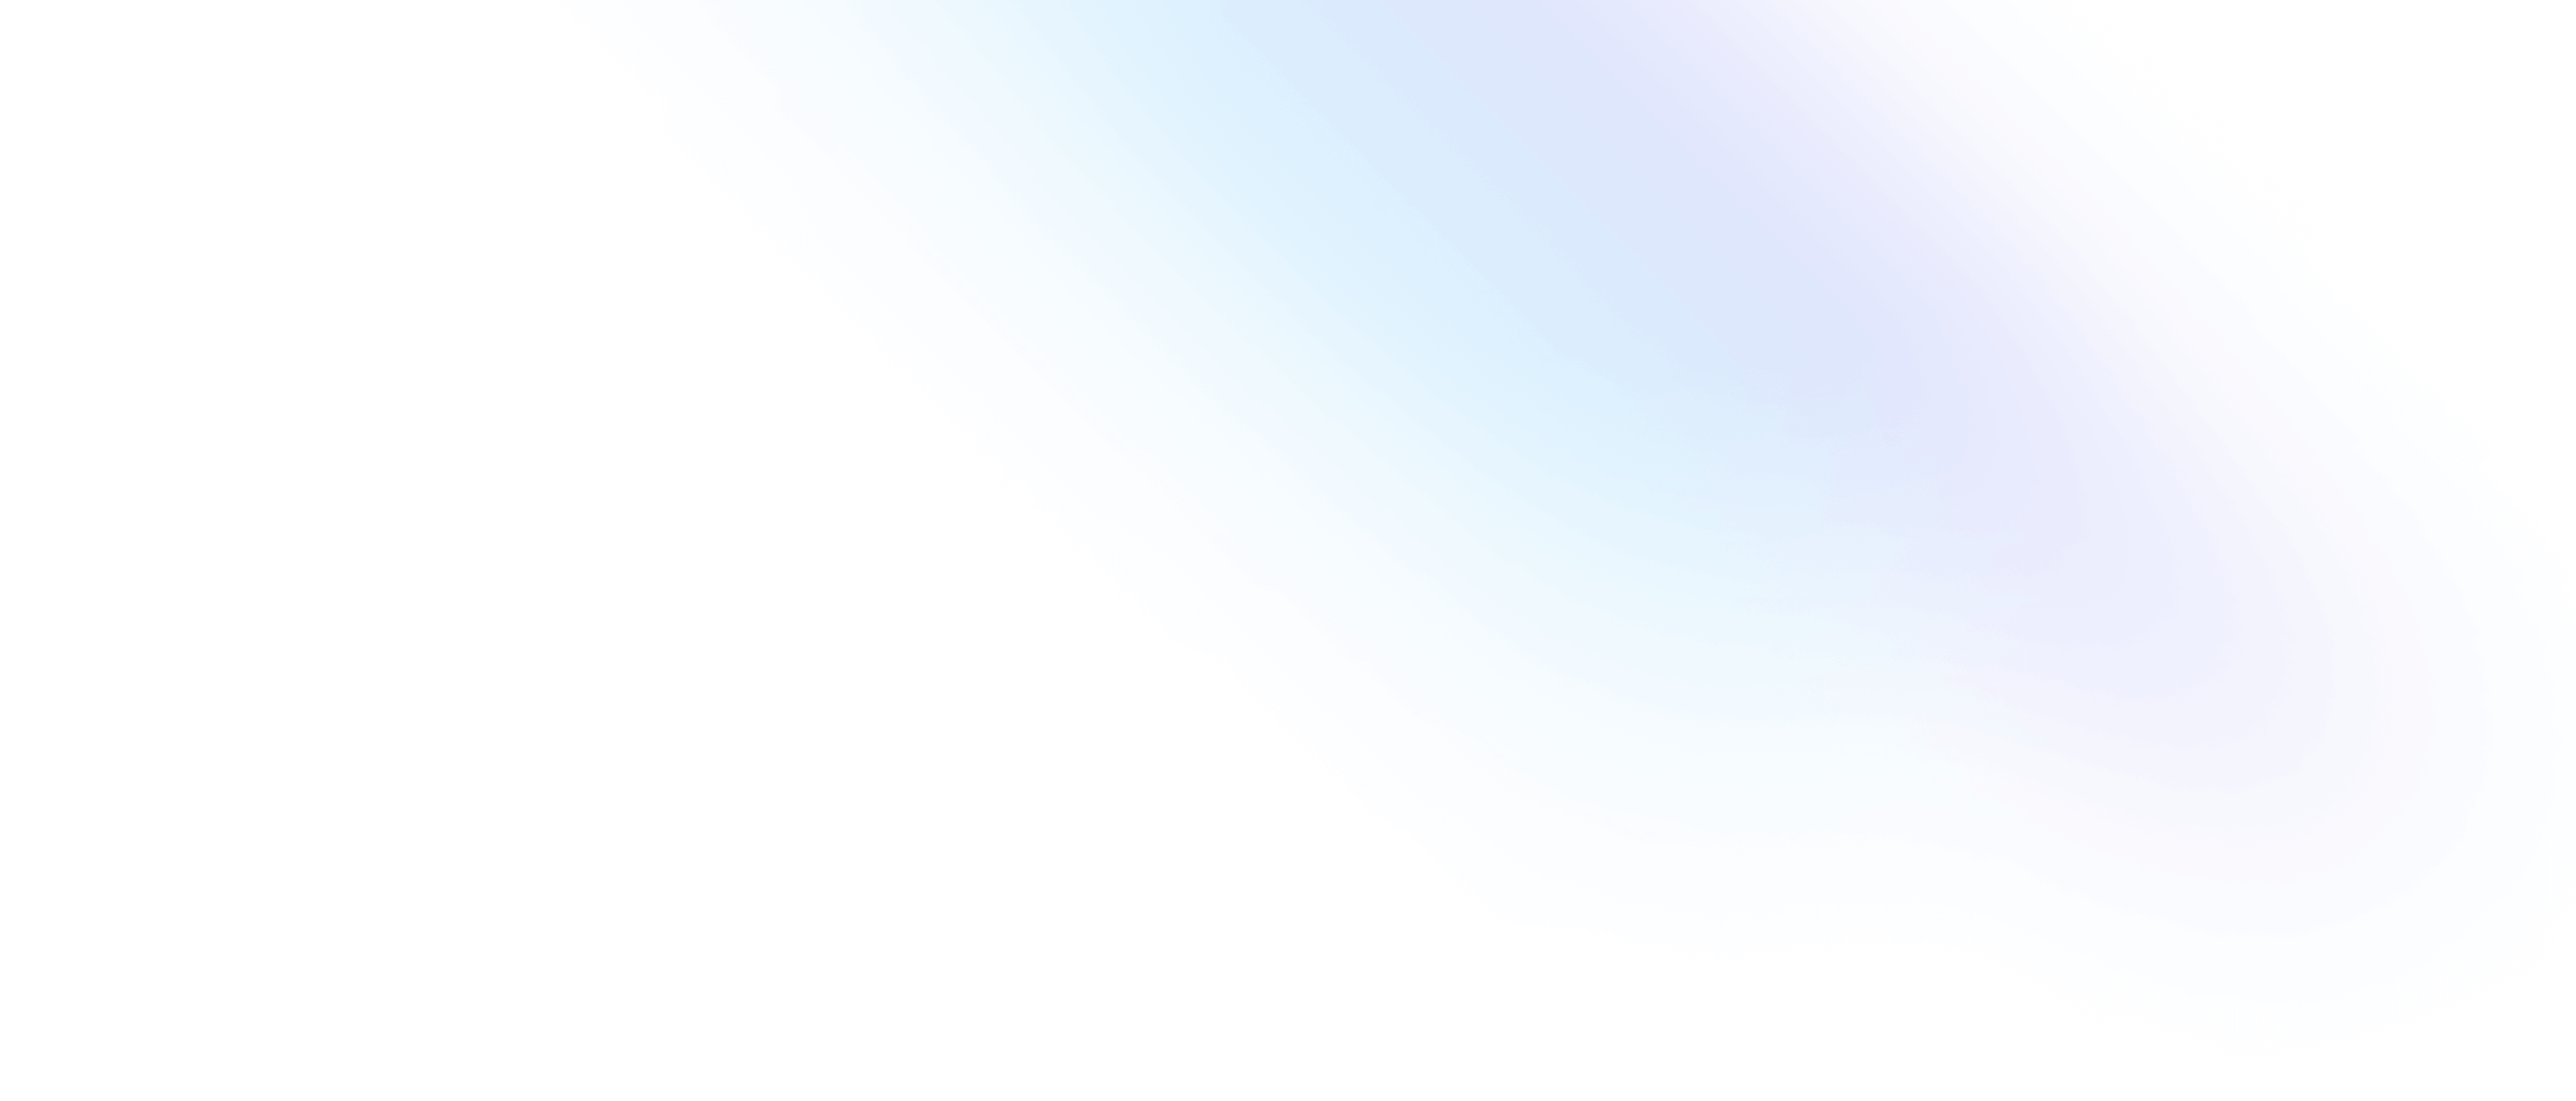
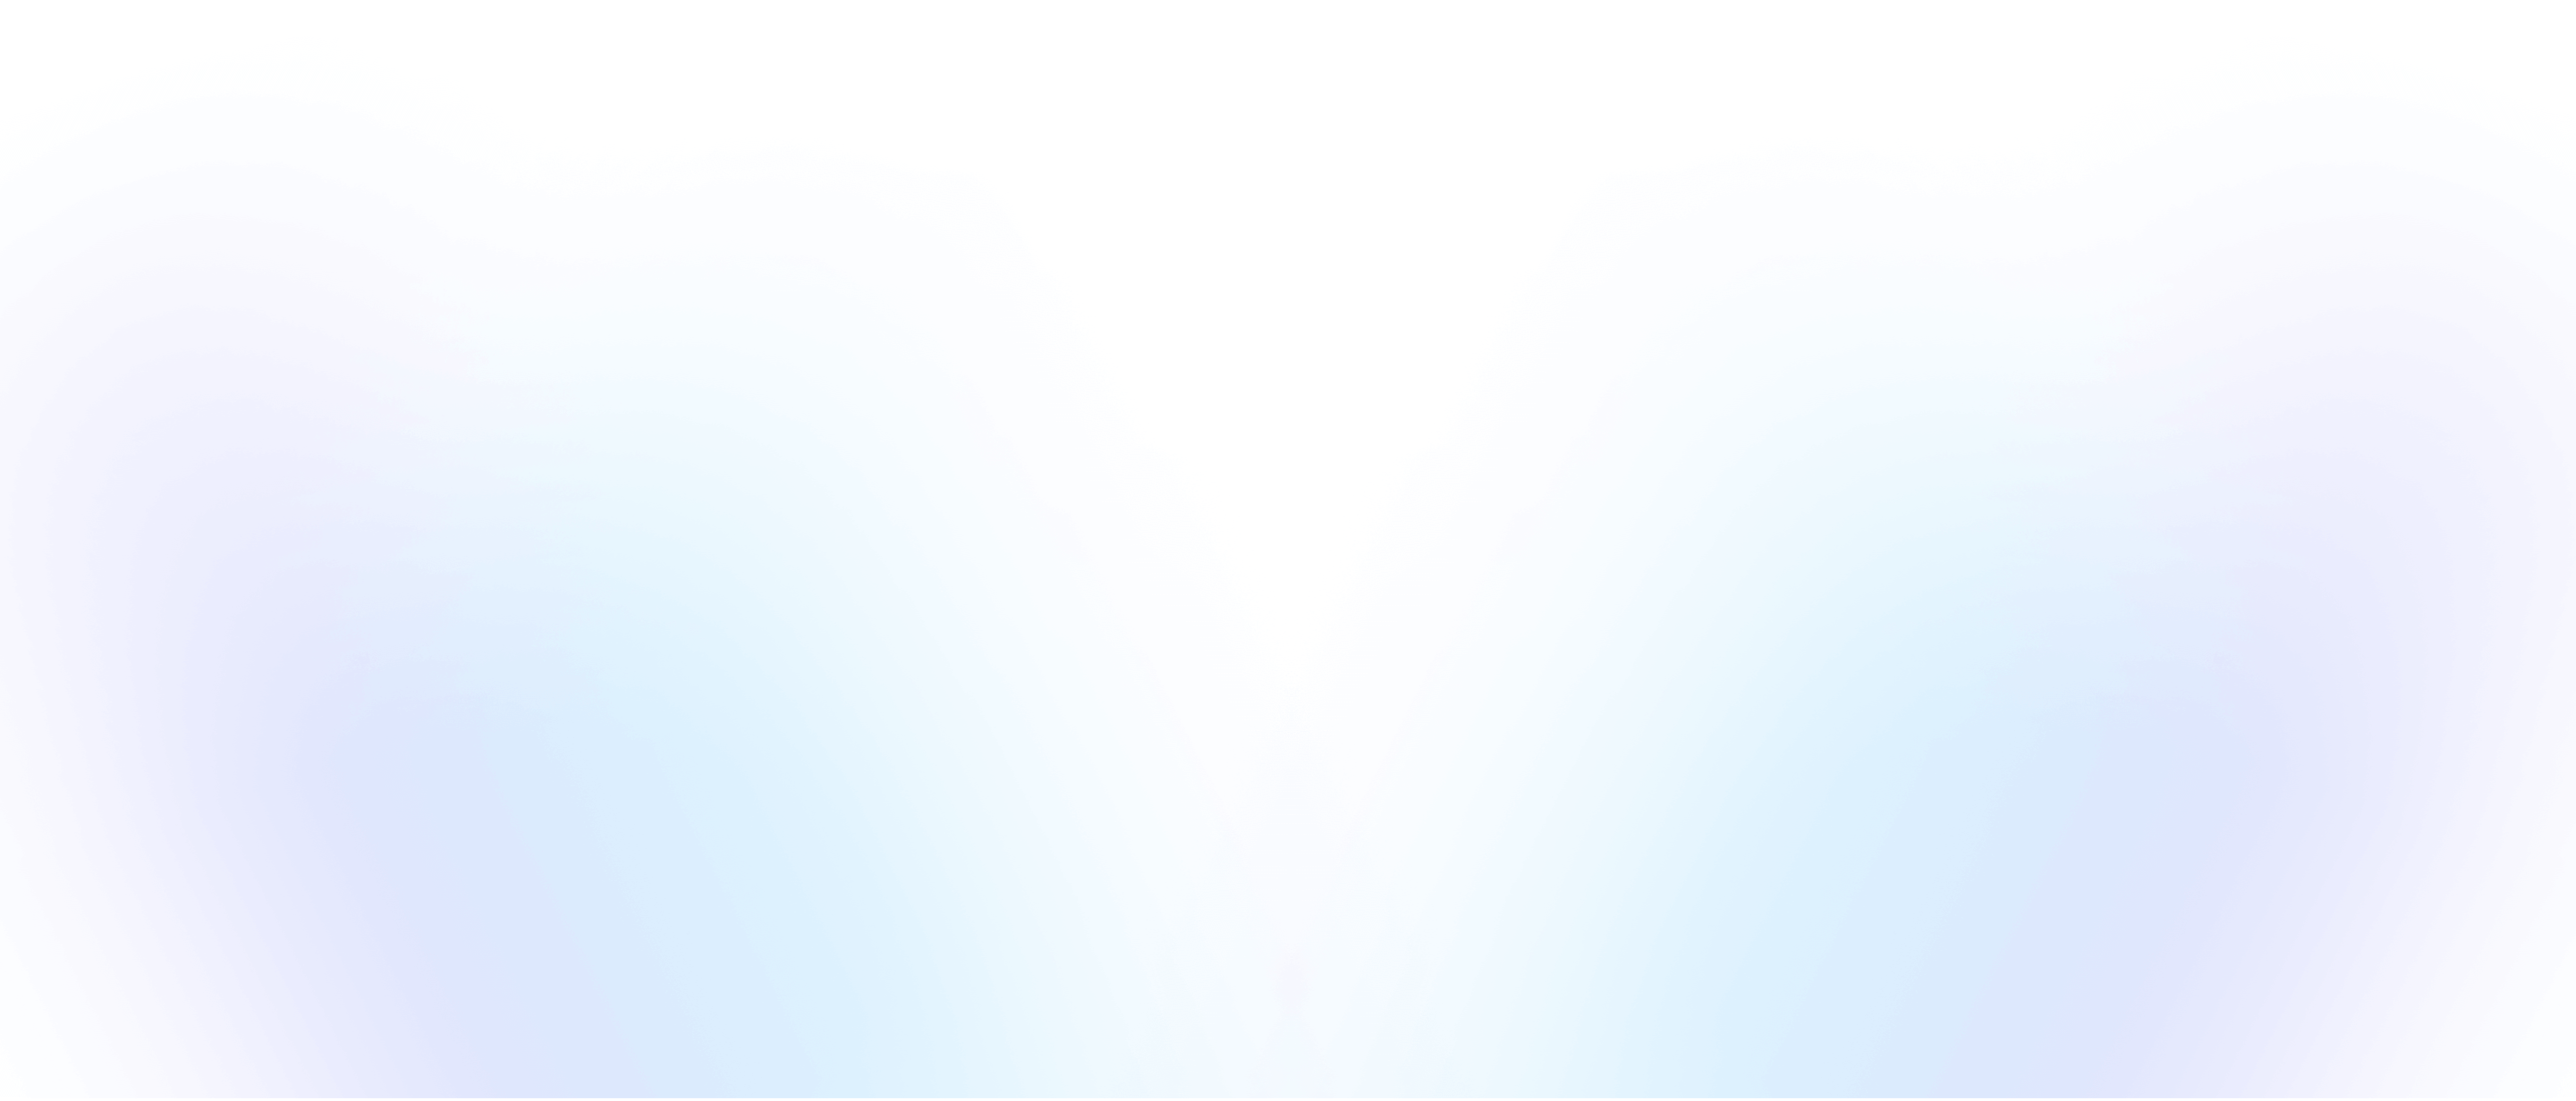
feat: improve home page by adding CTAs + elegant background glows

Changed region(s): [[0.0938, 0.4935, 0.4062, 1.0], [0.4062, 0.0, 0.7188, 0.4318], [0.5938, 0.6477, 0.875, 1.0]]

diff --git a/src/app/(home)/page.tsx b/src/app/(home)/page.tsx
@@ -1,9 +1,9 @@
-import { Scroller } from "@/components/ui";
+import { Button, Scroller } from "@/components/ui";
 import { type NextPage } from "next";
 
 const Page: NextPage = () => (
   <>
-    <section className="relative flex min-h-screen -mt-[92px] flex-col items-center bg-gradient-to-tr from-indigo-50 to-white">
+    <section className="relative flex min-h-screen -mt-[92px] flex-col items-center bg-[url('/assets/glow.png')] bg-cover bg-center">
       <h2 className=" mt-52 text-center font-heading text-7xl font-bold text-slate-700">
         Invest stablecoins into
         <br />
@@ -11,25 +11,31 @@ const Page: NextPage = () => (
       </h2>
       <section className="relative mt-20 flex content-around justify-around">
         {/* <div className=" absolute top-8 h-1 w-screen bg-sky-200"></div> */}
-        <article className=" relative mx-8 flex h-40 w-40 flex-col items-center justify-center rounded-3xl bg-indigo-300 bg-opacity-10 px-6 py-6 backdrop-blur-lg text-fg/90">
+        <article className=" relative mx-8 flex h-40 w-40 flex-col items-center justify-center rounded-3xl bg-indigo-300 bg-opacity-10 px-6 py-6 backdrop-blur-lg text-fg/90 shadow-md shadow-slate-200">
           <p className="mb-3 text-5xl font-bold">$8k</p>
           <h3 className="absolute bottom-3 text-lg  font-semibold text-indigo-200">
             TVL
           </h3>
         </article>
-        <article className=" relative mx-8 flex h-40 w-40 flex-col items-center justify-center rounded-3xl bg-indigo-300 bg-opacity-10 px-6 py-6 backdrop-blur-lg text-fg/90">
+        <article className=" relative mx-8 flex h-40 w-40 flex-col items-center justify-center rounded-3xl bg-indigo-300 bg-opacity-10 px-6 py-6 backdrop-blur-lg text-fg/90 shadow-md shadow-slate-200">
           <p className="mb-3 text-5xl font-bold">5%</p>
           <h3 className="absolute bottom-3 text-lg  font-semibold text-indigo-200">
             APY
           </h3>
         </article>
-        <article className=" relative mx-8 flex h-40 w-40 flex-col items-center justify-center rounded-3xl bg-indigo-300 bg-opacity-10 px-6 py-6 backdrop-blur-lg text-fg/90">
+        <article className=" relative mx-8 flex h-40 w-40 flex-col items-center justify-center rounded-3xl bg-indigo-300 bg-opacity-10 px-6 py-6 backdrop-blur-lg text-fg/90 shadow-md shadow-slate-200">
           <p className="mb-3 text-5xl font-bold">±0.1%</p>
           <h3 className="absolute bottom-3 text-lg  font-semibold text-indigo-200">
             1Y stability
           </h3>
         </article>
       </section>
+      <div className="flex gap-8 mt-20">
+        <Button size="large">Invest now</Button>
+        <Button variant="outline" size="large">
+          Learn more
+        </Button>
+      </div>
       <Scroller className="absolute bottom-11" />
     </section>
   </>

diff --git a/tailwind.config.js b/tailwind.config.js
@@ -30,7 +30,7 @@ const vars = {
     // Secondary colors
     // Used for:
     // - <Button variant="secondary"/> component
-    "--secondary-bg": toRGB(colors.indigo[300]),
+    "--secondary-bg": toRGB(colors.sky[500]),
     "--secondary-fg": toRGB(colors.slate[800]),
 
     // Destructive colors (intended to notice a destructive or critical action to the user)
@@ -43,7 +43,7 @@ const vars = {
     "--border": toRGB(colors.slate[800]),
 
     // Border colors for inputs components (input, select, textarea, ...)
-    "--input": toRGB(colors.slate[200]),
+    "--input": toRGB(colors.slate[300]),
 
     // Focus ring color
     "--ring": toRGB(colors.indigo[300]),
